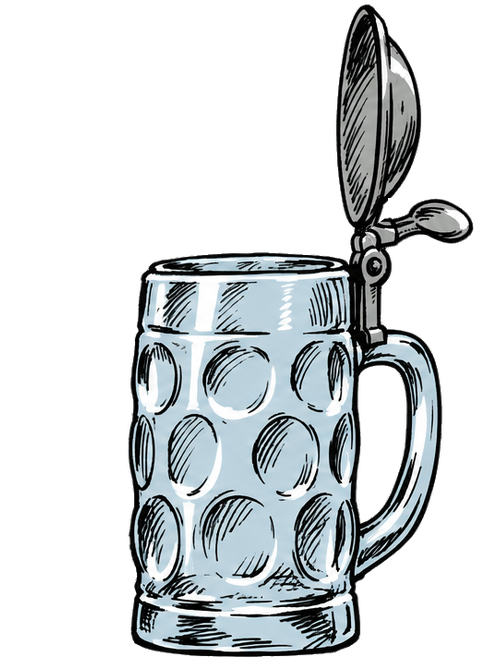
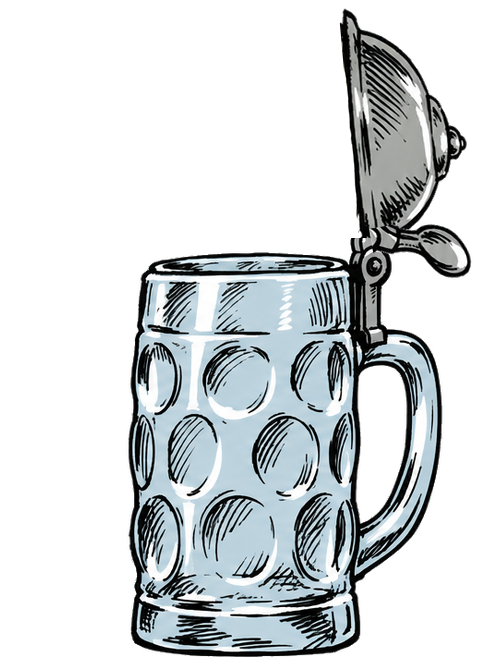
Save screen: open lid is the closed lid tipped up (knob, dome and rim kept)
Claude-Session: https://claude.ai/code/session_01GrbNTwVienMcpmsk1Pgq12

Changed region(s): [[0.6613, 0.0, 0.9619, 0.4262]]

diff --git a/guides/DESIGNER_MANUAL.md b/guides/DESIGNER_MANUAL.md
@@ -7694,7 +7694,7 @@ The three mugs ARE the save files, set in **`data/SaveMugs.csv`**:
 
 | Part | what it sets |
 |---|---|
-| `closed_full`, `open_full`, `closed_empty`, `open_empty` | Image = the mug pictures, all one mug at one size, cut from one hand-drawn sheet (r104, Anthony 20 Oct: "more drawn rather than so AI looking"; the beer was painted in where the handle meets the full mugs, free): full = a used save, empty = an empty slot, the open lid shows when you click it. The older glossy mugs stay in `art_tool/rounds/r96`-`r102` |
+| `closed_full`, `open_full`, `closed_empty`, `open_empty` | Image = the mug pictures, all one mug at one size, cut from one hand-drawn sheet (r104, Anthony 20 Oct: "more drawn rather than so AI looking"; the beer was painted in where the handle meets the full mugs, free): full = a used save, empty = an empty slot, the open lid shows when you click it. The open lid is the closed lid (knob, dome and rim) tipped up at its hinge, and its thumb knob is the closed one, so both are the same size open and closed (free, `art_tool/save_screen/lid2.py`). The older glossy mugs stay in `art_tool/rounds/r96`-`r102` |
 | `slot` (one row per save, top = slot 1) | X, Y = the bottom middle of the mug on the 1920 x 1080 screen |
 | `name_text` | under a closed mug, "Slot 1 · 3 matches" on a see-through dark backing: Y = the gap below the mug, Size = letter size |
 | `menu` | on the open mug's glass, one above the other (Anthony): X = button width, Y = how far above the mug's bottom their middle sits, Size = letter size |
